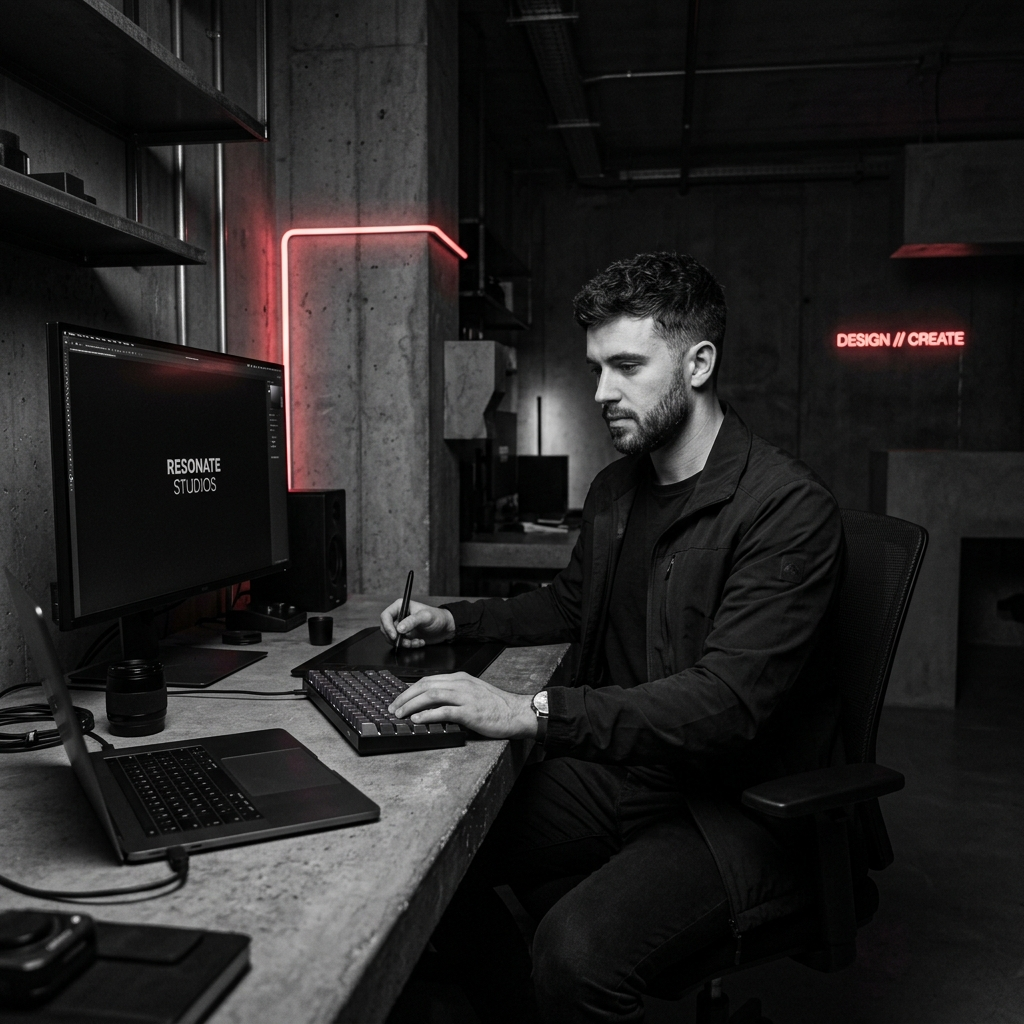
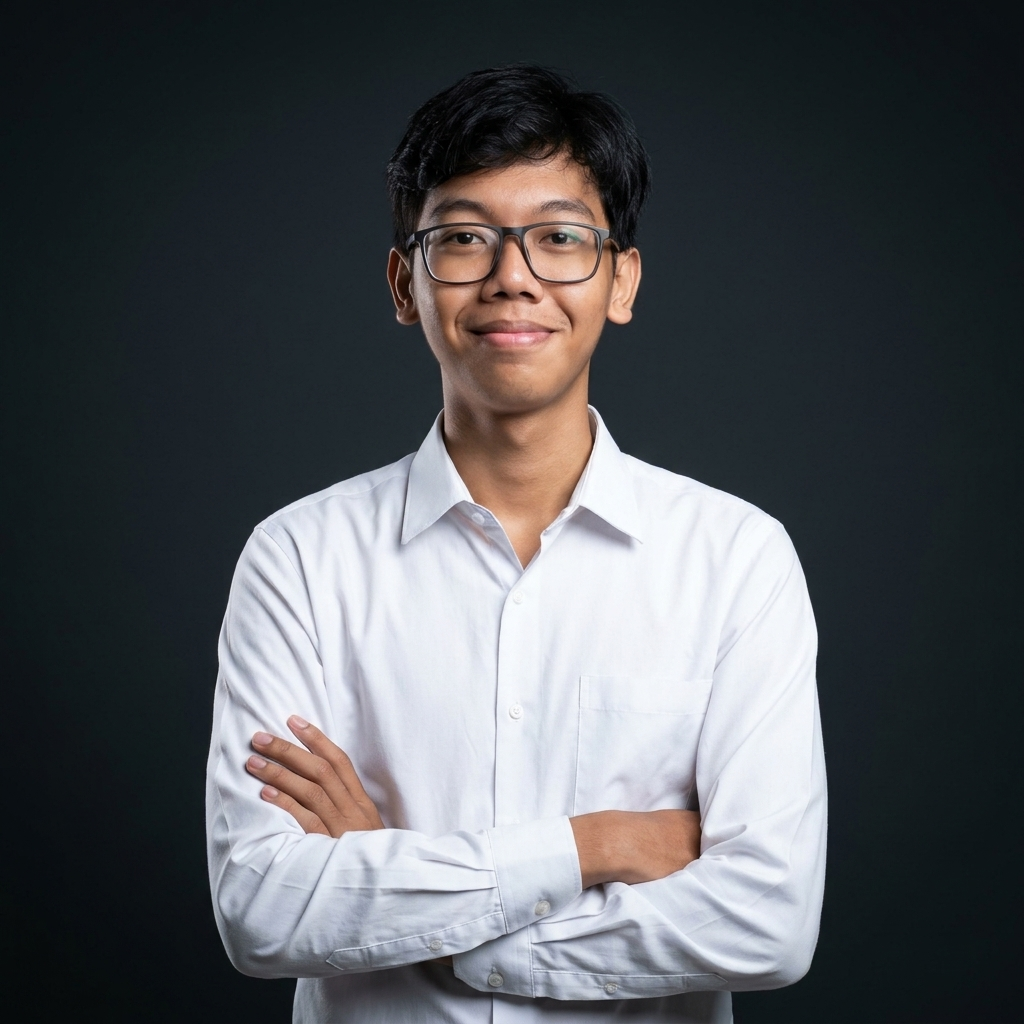
add photo rentalbase

diff --git a/index.html b/index.html
@@ -124,7 +124,7 @@
 
             <!-- Image with sleek overlay -->
             <div class="relative aspect-square overflow-hidden rounded-xl">
-              <img src="./assets/images/hero_portrait.jpg" alt="Tersiqo Alfarezel Profile" class="w-full h-full object-cover grayscale contrast-125 group-hover:scale-105 transition-transform duration-700">
+              <img src="./assets/images/hero_portrait.jpg" alt="Tersiqo Alfarezel Profile" class="w-full h-full object-cover object-center group-hover:scale-105 transition-transform duration-700">
               
               <!-- Bottom gradient dark overlay -->
               <div class="absolute inset-0 bg-gradient-to-t from-[#0A0A0B] via-transparent to-transparent opacity-90"></div>
